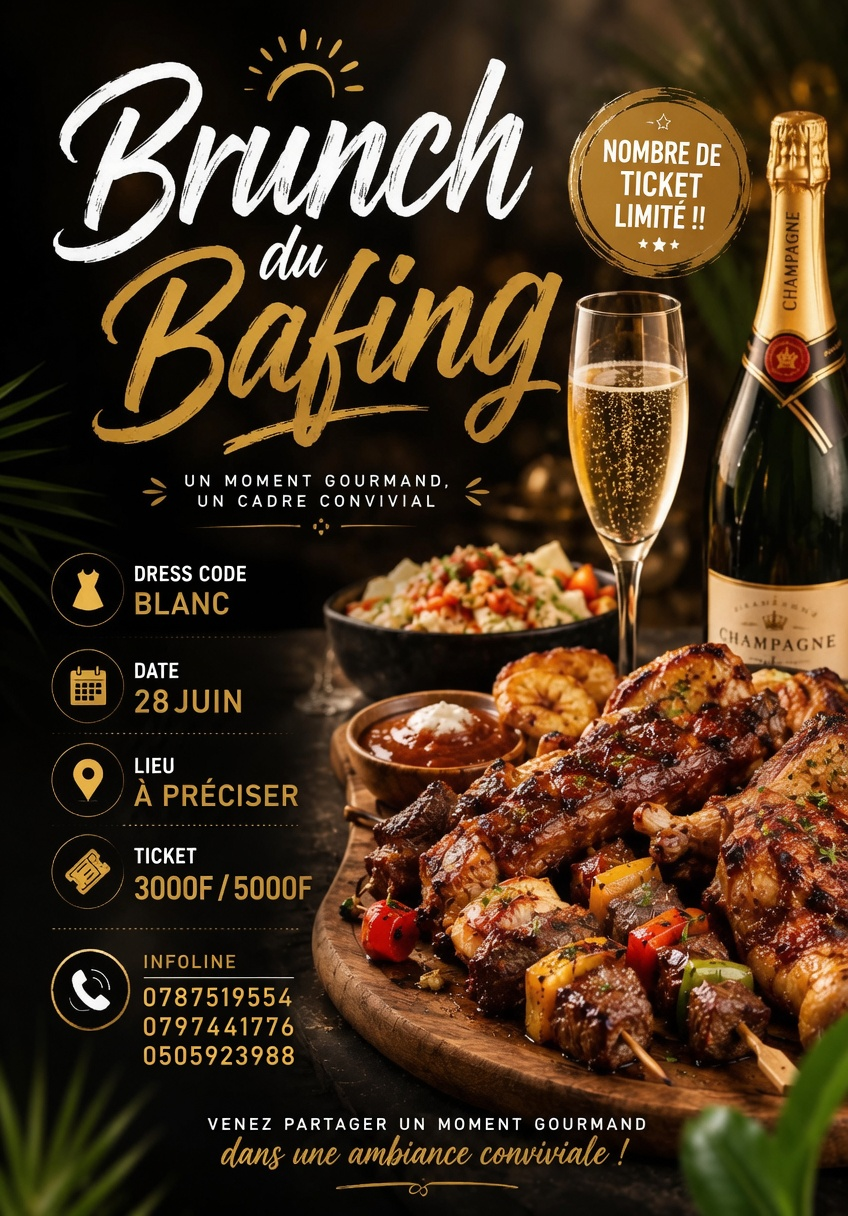
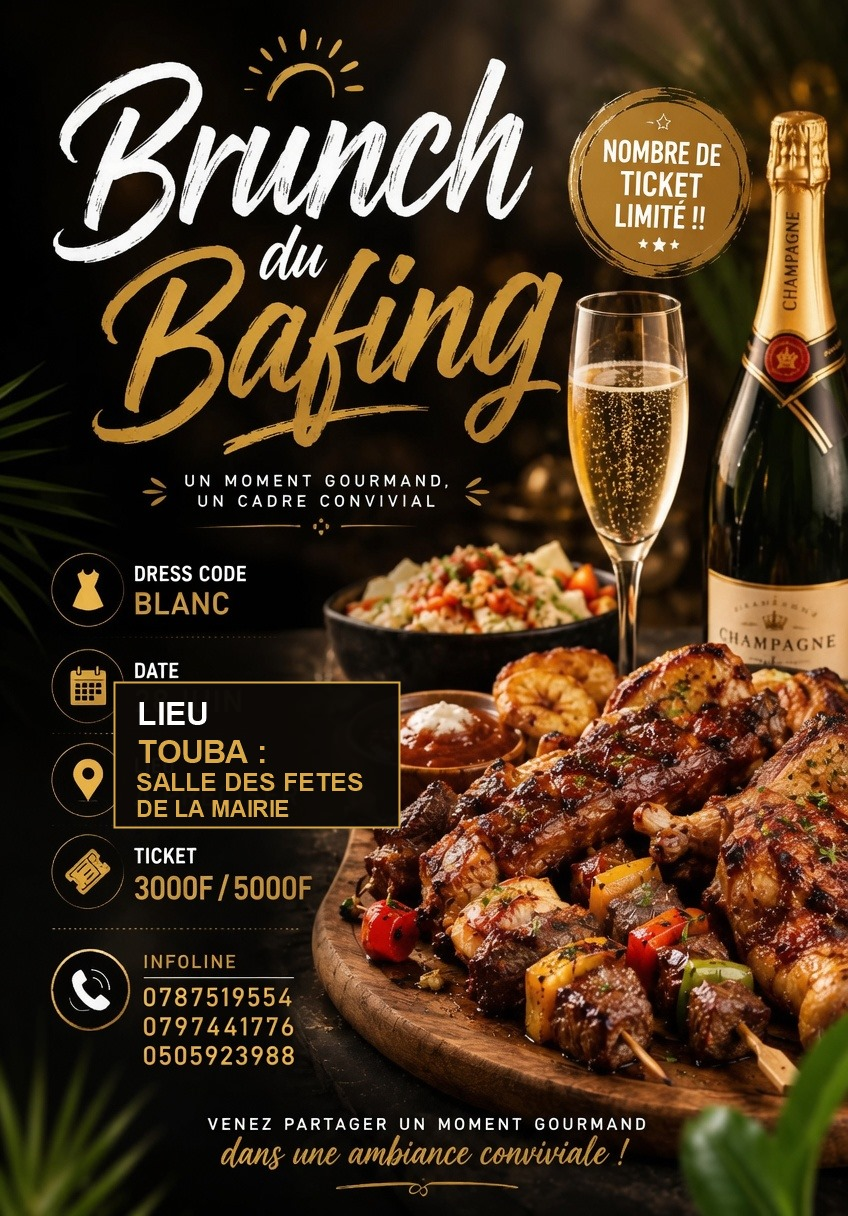
Update event venue across site and tickets

Changed region(s): [[0.1226, 0.5625, 0.4906, 0.6875]]

diff --git a/server.js b/server.js
@@ -277,7 +277,7 @@ function drawTicketPdf(order, stream) {
   labelValue(doc, "Statut", "Paiement confirme", 620, 298, { width: 110, valueSize: 12, valueColor: "#69e28e" });
 
   labelValue(doc, "Date", "28 juin", 366, 366, { width: 90, valueSize: 15 });
-  labelValue(doc, "Lieu", "A preciser", 476, 366, { width: 120, valueSize: 15 });
+  labelValue(doc, "Lieu", "TOUBA : salle des fete de la mairie", 476, 366, { width: 130, valueSize: 10 });
   labelValue(doc, "Dress code", "Blanc", 620, 366, { width: 90, valueSize: 15 });
 
   doc.fillColor("#d7a84d").fontSize(12).text("FORMULE INCLUSE", 366, 426, { width: 180, characterSpacing: 1.1 });

diff --git a/public/index.html b/public/index.html
@@ -32,7 +32,7 @@
     <main>
       <section class="event-strip" aria-label="Informations evenement">
         <div><span>Date</span><strong>28 juin</strong></div>
-        <div><span>Lieu</span><strong>A preciser</strong></div>
+        <div><span>Lieu</span><strong>TOUBA : salle des fete de la mairie</strong></div>
         <div><span>Dress code</span><strong>Blanc</strong></div>
         <div><span>Infoline</span><strong>0787519554</strong></div>
       </section>
